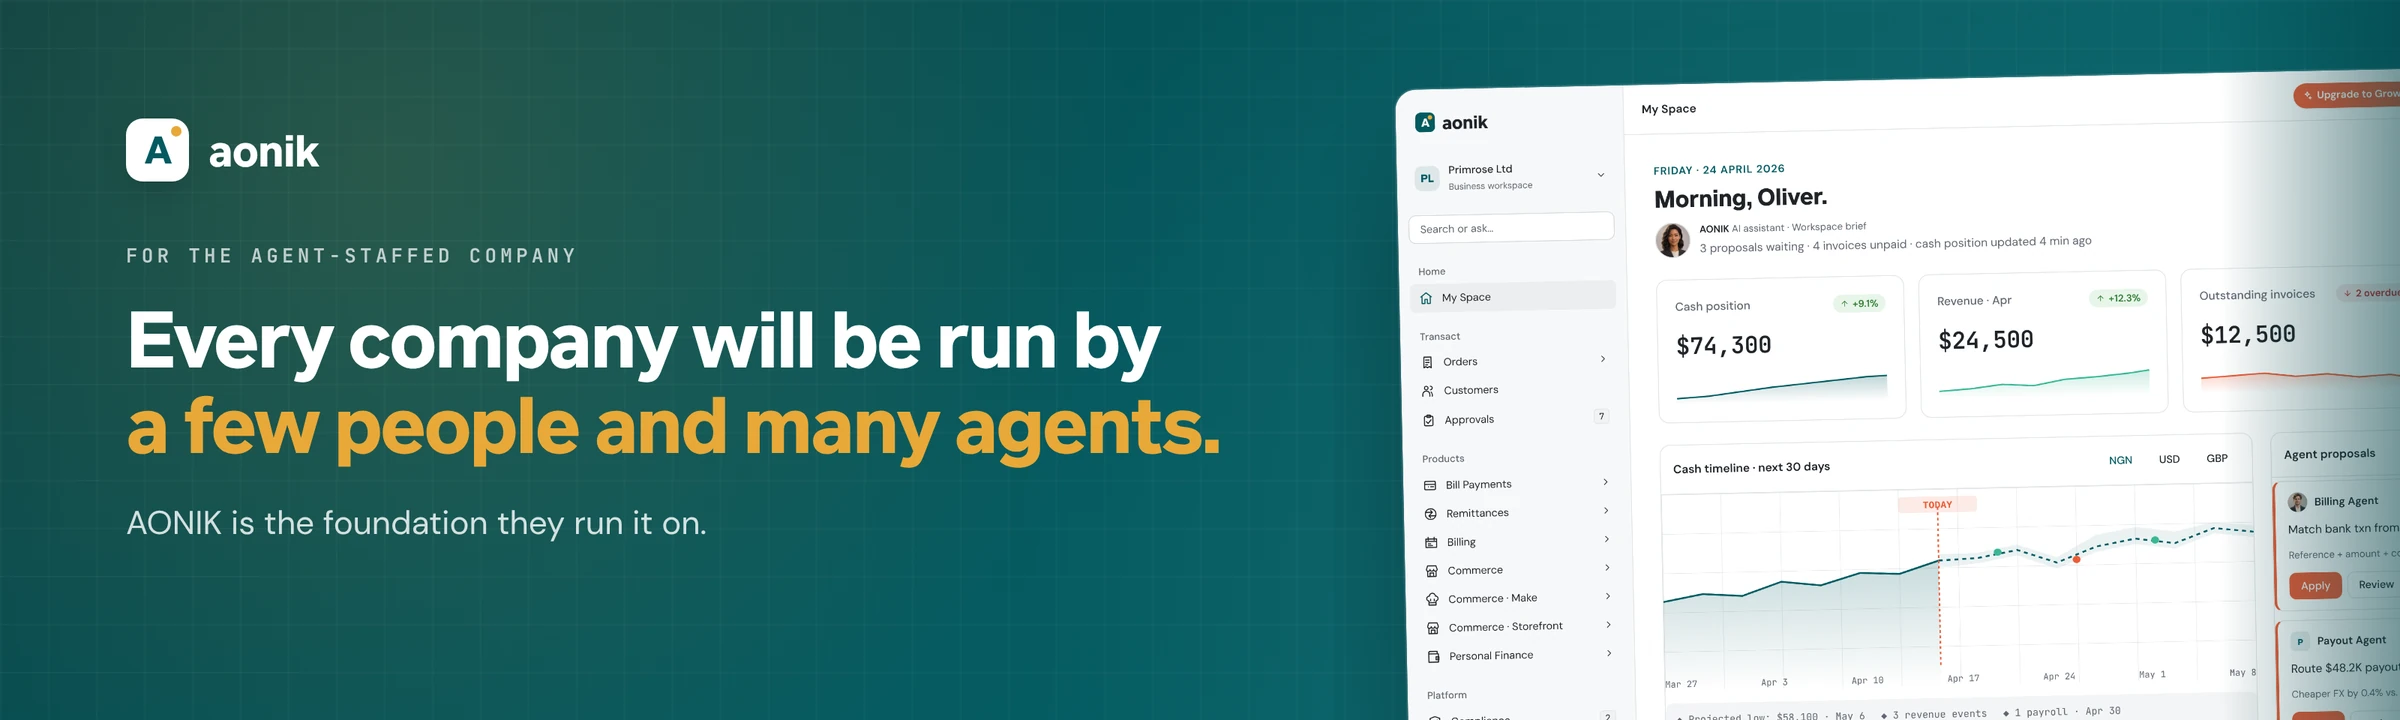
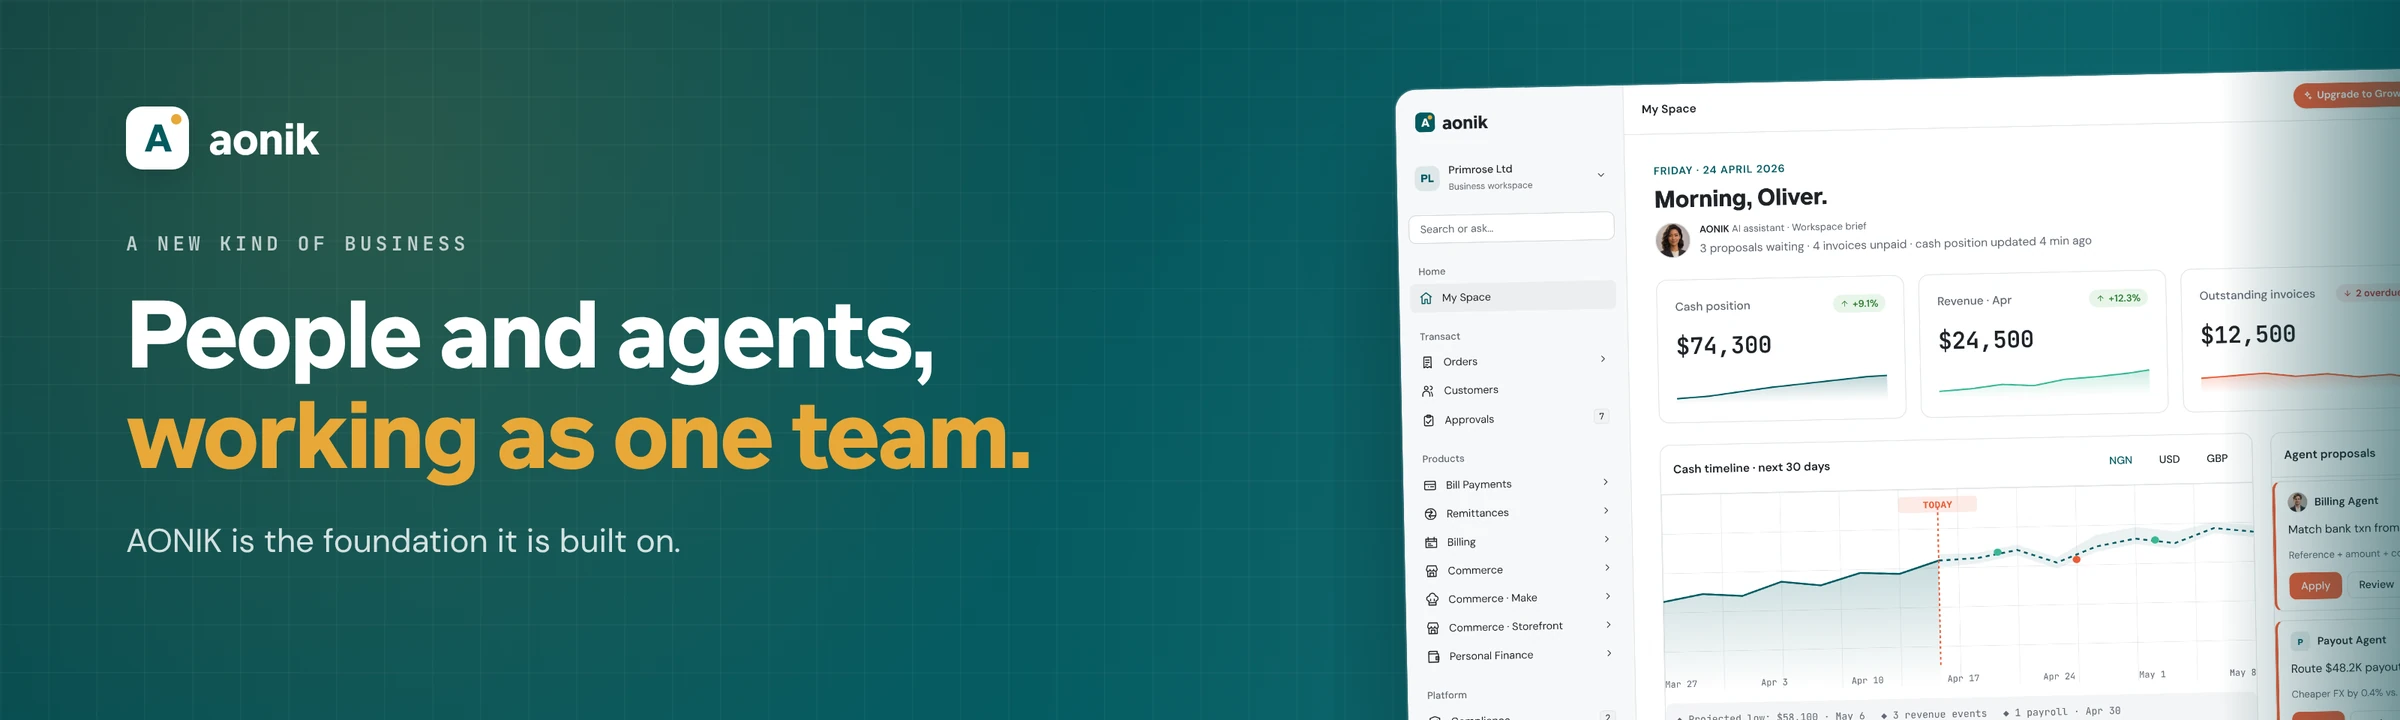
docs: frame the README as people and agents working as one team
Replace the "agent-staffed" framing, which read as agents taking the place of
a workforce, with collaboration: a new kind of business where people and
agents work side by side, and AONIK is the foundation it is built on.

- Banner: "People and agents, working as one team."
- Intro and "The idea": agents carry the routine, people bring judgement,
  relationships and the decisions that carry weight; it suits any size.
- Add "People and agents are one team" as the first principle.

Claude-Session: https://claude.ai/code/session_016gZtSGaHhFDDjFsLB8LnCJ

diff --git a/README.md b/README.md
@@ -1,9 +1,11 @@
 <div align="center">
 
-<img src=".github/assets/readme-banner.webp" alt="AONIK, for the agent-staffed company. Every company will be run by a few people and many agents. AONIK is the foundation they run it on." width="100%">
+<img src=".github/assets/readme-banner.webp" alt="AONIK. A new kind of business: people and agents, working as one team. AONIK is the foundation it is built on." width="100%">
 
-**Owner-operated. Agent-staffed.** AONIK is one system for customers, money and operations,
-with a staff of agents that have defined roles and a human decision wherever it matters.
+A new kind of business is taking shape, one where people and agents work side by side.
+AONIK is the foundation for it: one system for customers, money and operations, where agents
+carry the routine, people bring the judgement, and every decision that matters stays with a
+person.
 
 The first modules are in finance, from personal finance and payment collection to an online
 store and the purchasing, stock and production behind a food business.
@@ -43,23 +45,24 @@ store and the purchasing, stock and production behind a food business.
 
 ## The idea
 
-For thirty years software gave a business tools, and the business supplied the labour. Every
-new need meant another application: one for invoices, one for customers, one for the shop,
-one for support, each with its own login and its own version of the truth.
+For thirty years software gave a business tools, and its people did all of the work with
+them. Every new need meant another application: one for invoices, one for customers, one for
+the shop, one for support, each with its own login and its own version of the truth.
 
-Agents change who does the work. So far they have arrived in two ways: as an assistant bolted
-onto each of those applications, seeing a tenth of the business, or as an autonomous bot
-nobody would trust with a bank account.
+Agents change that. So far they have arrived in two ways: as an assistant bolted onto each of
+those applications, seeing a tenth of the business, or as automation meant to run without the
+people who understand the business.
 
-AONIK takes a third way. **A few people decide, and a staff of agents does the work**, on one
-system that holds the record and asks before it acts. We call that an *agent-staffed
-company*. The agents have roles, tools and limits, as staff do. The owner still runs the
-business.
+AONIK takes a third way. **People and agents work as one team**, on one system that holds the
+record. Agents take the work that is repetitive and constant: drafting invoices, classifying
+transactions, checking stock, preparing the purchase order. People do what people are for:
+judgement, relationships, and the decisions that carry weight. Each agent has a role, tools
+and limits, and works in the open, where its colleagues can see what it did and why.
 
-Small companies gain most. A founder working alone can have agents raising invoices, checking
-stock and drafting the purchase order, planning tomorrow's production and reading the margin
-report, while every payment still waits for the founder's decision. Headcount stops being the
-limit on what a company can take on.
+It is a new kind of business, and it suits any size. A larger team hands the routine to agents
+and spends its time on customers and decisions. A founder working alone gains colleagues. In
+both, an agent proposes and a person decides, so what a company can take on is no longer set
+by the hours in its people's day.
 
 <div align="center">
 
@@ -86,7 +89,7 @@ whatever it sells:
 | **Documents** | Files with versions, links to the records they belong to, extraction and search. |
 | **People and access** | Sign-in, roles, permissions and sessions, with a workspace for each business. |
 | **Compliance** | Identity documents and their verification, screening checks, cases and an audit record. |
-| **Agents and automation** | A staff of agents, approvals, workflows, connectors, chat and voice. |
+| **Agents and automation** | Agents that work alongside your team, with approvals, workflows, connectors, chat and voice. |
 
 The first modules built on it follow the money outward, from one person's finances to a
 working kitchen:
@@ -943,6 +946,10 @@ are chunked, embedded and indexed in Qdrant by the Worker, scoped to the party t
 them, so an agent retrieves only what its user may see.
 
 ## Principles
+
+**People and agents are one team.** Agents carry the routine and the constant. People bring
+judgement, relationships and accountability. Neither works out of sight of the other: every
+author in a conversation is named, and everything an agent does can be traced.
 
 **Agents propose. Systems apply. Humans stay in control.** An agent may reason, plan and
 draft as boldly as it likes. It cannot quietly change a balance, send a payment or publish a

diff --git a/CHANGELOG.md b/CHANGELOG.md
@@ -4,7 +4,7 @@ All notable changes to the AONIK project will be documented in this file.
 
 ## [Unreleased]
 
-- **README rewrite:** Replace the top-level README with a product-led overview, positioned around the agent-staffed company (a few people deciding, a staff of agents doing the work, on one foundation), covering the foundation, the first finance-led modules and the current modules, agents, tiered approvals, workflows, connectors, finance, remittance, commerce, publishing, voice and observability, plus business-type packs, a run-from-source guide and an explicit status section separating what is built from what is only drawn. Add 55 light/dark screenshot pairs, a Payabo phone composite and a banner under `.github/assets`, rendered from the admin and Payabo mobile design kits. No runtime changes.
+- **README rewrite:** Replace the top-level README with a product-led overview, positioned as the foundation for a business where people and agents work as one team, covering the foundation, the first finance-led modules and the current modules, agents, tiered approvals, workflows, connectors, finance, remittance, commerce, publishing, voice and observability, plus business-type packs, a run-from-source guide and an explicit status section separating what is built from what is only drawn. Add 55 light/dark screenshot pairs, a Payabo phone composite and a banner under `.github/assets`, rendered from the admin and Payabo mobile design kits. No runtime changes.
 
 - **Workflow and connector usability (#438):** Show readable workspace environments and a user-specific last-used choice. Start Gmail requests with the three available read permissions, separate additional permissions, check readiness for the requested ownership and place mutation recovery under Troubleshooting. Keep My Connections in the shared application shell without requiring admin access. Reuse one actionable AI error notice, responsive editor sheets and exact fixture/field validation diagnostics. Keep incomplete JSON visible until corrected or explicitly discarded before closing a sheet.
 
